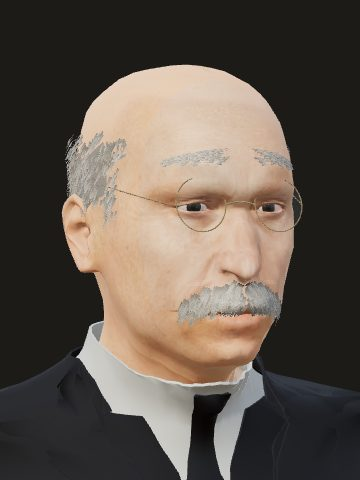
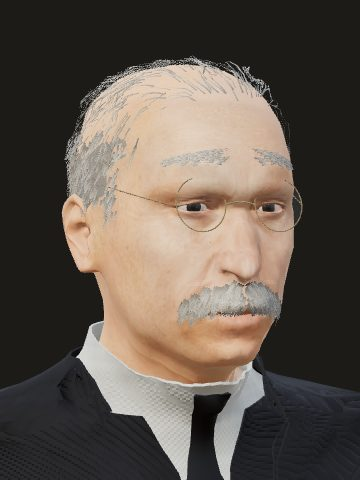
T-3553: Mr. Glessner up close in the brougham: near figure, hands on his thighs, thin crown
- driven-assembly-loader.js: a cab passenger is drawn at a near level on every device
  (min(driverLod, 1)), so on a phone or Light he keeps his hair, moustache and spectacles
  instead of taking the box's far body.
- cab-passenger.js: each hand is laid on its own thigh (two-bone reach each frame, palm down,
  fingers toward the knee) instead of hanging by his shins; bends may name a y or z axis.
- human-hair.js / human-hair-styles.js: a bald cut may keep a thin cover over the crown
  (`crown`, its own seed); Glessner's 1897 plate shows one. Card likeness still redrawn.
- Tests: test_glessner_ride.mjs checks the hands and the passenger level; test_human_hair.mjs
  the thin crown.

Claude-Session: https://claude.ai/code/session_01YWBQdZjRPAcLLyTYiHFddE

diff --git a/chicago/4d/renderers/web/js/cab-passenger.js b/chicago/4d/renderers/web/js/cab-passenger.js
@@ -13,8 +13,9 @@
  * onto the cab's seat (`root_local_m`) and bent there, each bend a world rotation about the
  * vehicle's lateral axis measured once on the clip's first pose and applied as a local
  * delta: thighs raised for the low seat, shins brought back to the floor, the back bent
- * forward from the lower spine, the neck and head lifted again to look ahead, the arms
- * forward toward the knees. The hat is off indoors. tools/test_glessner_ride.mjs measures
+ * forward from the lower spine, the neck and head lifted again to look ahead. Then each hand
+ * is laid on its own thigh (`lap`: the arm turned to reach it, the hand palm down, fingers
+ * toward the knee), each frame, so it stays there as he breathes. The hat is off indoors. tools/test_glessner_ride.mjs measures
  * the bent figure against the cab's own surfaces (roof, floor, walls).
  *
  * Bones whose clip tracks never change are not rewritten by three's mixer, so each frame the
@@ -24,10 +25,10 @@
  */
 import * as THREE from 'three';
 
-const X = new THREE.Vector3(1, 0, 0);
+const AXES = Object.freeze({ x: new THREE.Vector3(1, 0, 0), y: new THREE.Vector3(0, 1, 0), z: new THREE.Vector3(0, 0, 1) });
 const DEG = Math.PI / 180;
 
-/** The default bends (degrees about the vehicle's lateral axis; + tips a forward-pointing limb down). */
+/** The default bends (degrees about the vehicle's lateral axis unless a third entry names 'y' or 'z'; + tips a forward-pointing limb down). */
 export const CAB_SEAT_POSE = Object.freeze({
   bends: Object.freeze([
     ['thigh_l', -44], ['thigh_r', -44],
@@ -37,7 +38,57 @@ export const CAB_SEAT_POSE = Object.freeze({
     ['upperarm_l', 5], ['upperarm_r', 5],
   ]),
   hide: '(headwear|hat)',
+  // Kevin, 2026-11-17: "he also sits oddly with his arms under him". The coachman's clip holds
+  // the reins forward, so bent to the low seat his hands hung down by his shins. Each hand is
+  // laid on its own thigh instead (`lap`): the wrist over the thigh `along` the way from hip
+  // to knee, `lift` above the thigh bone (the thigh's top and the wrist's own half-thickness)
+  // and `inset` toward his middle, the elbow falling back and out (`pole`).
+  lap: Object.freeze({ along: .72, lift: .085, inset: .02, turn_in: .15, pole: Object.freeze([1, -.6, -.4]) }),
 });
+
+const V = () => new THREE.Vector3();
+/**
+ * One arm's wrist onto `target` (world), by turning the upper arm and then the forearm in the
+ * plane the elbow's `pole` (world direction) chooses. Lengths are the bones' own.
+ */
+function reach(upper, lower, hand, target, pole) {
+  upper.updateWorldMatrix(true, true);
+  const S = upper.getWorldPosition(V()), E = lower.getWorldPosition(V()), H = hand.getWorldPosition(V());
+  const a = S.distanceTo(E), b = E.distanceTo(H);
+  const toT = target.clone().sub(S), d = Math.min(Math.max(toT.length(), Math.abs(a - b) + 1e-4), a + b - 1e-4);
+  const u = toT.normalize(), v = pole.clone().addScaledVector(u, -pole.dot(u));
+  if (v.lengthSq() < 1e-10) return;
+  v.normalize();
+  const cos = Math.min(1, Math.max(-1, (a * a + d * d - b * b) / (2 * a * d)));
+  const E2 = S.clone().addScaledVector(u, a * cos).addScaledVector(v, a * Math.sqrt(1 - cos * cos));
+  const H2 = S.clone().addScaledVector(u, d);
+  turn(upper, E.clone().sub(S).normalize(), E2.clone().sub(S).normalize());
+  upper.updateWorldMatrix(false, true);
+  const E1 = lower.getWorldPosition(V());
+  turn(lower, hand.getWorldPosition(V()).sub(E1).normalize(), H2.sub(E1).normalize());
+  lower.updateWorldMatrix(false, true);
+}
+/**
+ * Lay a hand flat: its fingers (wrist to the middle knuckle) along `along`, the knuckles' line
+ * (little finger to forefinger) toward `inward`, so the palm faces down onto the thigh.
+ */
+function layHand(hand, middle, index, pinky, along, inward) {
+  hand.updateWorldMatrix(true, true);
+  const basis = (f, s) => { f = f.clone().normalize(); s = s.clone().addScaledVector(f, -s.dot(f)).normalize();
+    return new THREE.Matrix4().makeBasis(f, s, f.clone().cross(s)); };
+  const from = basis(middle.getWorldPosition(V()).sub(hand.getWorldPosition(V())), index.getWorldPosition(V()).sub(pinky.getWorldPosition(V())));
+  const to = basis(along, inward);
+  const r = new THREE.Quaternion().setFromRotationMatrix(to.multiply(from.transpose()));
+  const w = hand.getWorldQuaternion(new THREE.Quaternion());
+  hand.quaternion.multiply(w.clone().invert().multiply(r).multiply(w));
+  hand.updateWorldMatrix(false, true);
+}
+/** Turn `bone` so its world direction `from` points along `to`. */
+function turn(bone, from, to) {
+  const w = bone.getWorldQuaternion(new THREE.Quaternion());
+  const r = new THREE.Quaternion().setFromUnitVectors(from, to);
+  bone.quaternion.multiply(w.clone().invert().multiply(r).multiply(w));
+}
 
 /**
  * Bend a seated body (`scene`, its clip already applied at its first pose) per `pose`.
@@ -45,18 +96,19 @@ export const CAB_SEAT_POSE = Object.freeze({
  * { restore(), apply(), bones, hidden } — restore() before each mixer update, apply() after it
  * and before any life layer.
  */
-export function seatInCab(scene, { bends = CAB_SEAT_POSE.bends, hide = CAB_SEAT_POSE.hide } = {}, frame = scene) {
+export function seatInCab(scene, { bends = CAB_SEAT_POSE.bends, hide = CAB_SEAT_POSE.hide, lap = CAB_SEAT_POSE.lap } = {}, frame = scene) {
   const bones = new Map();
   scene.traverse(o => { if (o.isBone) bones.set(o.name, o); });
   frame.updateMatrixWorld(true);
   const frameInv = frame.getWorldQuaternion(new THREE.Quaternion()).invert();
   const deltas = [];
-  for (const [name, deg] of bends) {
+  for (const [name, deg, axis = 'x'] of bends) {
     const bone = bones.get(name);
     if (!bone) throw Error(`cab passenger: the contract skeleton has no ${name}`);
     frame.updateMatrixWorld(true);
     const bw = frameInv.clone().multiply(bone.getWorldQuaternion(new THREE.Quaternion()));
-    const r = new THREE.Quaternion().setFromAxisAngle(X, deg * DEG);
+    if (!AXES[axis]) throw Error(`cab passenger: no axis ${axis}`);
+    const r = new THREE.Quaternion().setFromAxisAngle(AXES[axis], deg * DEG);
     const d = bw.clone().invert().multiply(r).multiply(bw);
     bone.quaternion.multiply(d);
     deltas.push({ bone, d, base: null });
@@ -69,15 +121,45 @@ export function seatInCab(scene, { bends = CAB_SEAT_POSE.bends, hide = CAB_SEAT_
     const re = new RegExp(hide, 'i');
     scene.traverse(o => { if (o.isMesh && re.test(o.name) && o.visible) { o.visible = false; hidden.push(o); } });
   }
+  const need = n => { const b = bones.get(n); if (!b) throw Error(`cab passenger: the contract skeleton has no ${n}`); return b; };
+  const arms = lap ? ['l', 'r'].map(s => ({ s, upper: need(`upperarm_${s}`), lower: need(`lowerarm_${s}`), hand: need(`hand_${s}`),
+    thigh: need(`thigh_${s}`), calf: need(`calf_${s}`),
+    middle: need(`middle_01_${s}`), index: need(`index_01_${s}`), pinky: need(`pinky_01_${s}`), base: [null, null, null] })) : [];
+  const fq = new THREE.Quaternion(), mid = V(), side = V();
   return {
-    bones: deltas.map(x => x.bone.name), hidden,
+    bones: [...deltas.map(x => x.bone.name), ...arms.flatMap(a => [a.upper.name, a.lower.name, a.hand.name])], hidden,
     /** Before the mixer: each bent bone back to the clip's own pose of it. */
-    restore() { for (const x of deltas) if (x.base) x.bone.quaternion.copy(x.base); },
+    restore() {
+      for (let i = arms.length - 1; i >= 0; i--) { const a = arms[i]; if (a.base[0]) { a.upper.quaternion.copy(a.base[0]); a.lower.quaternion.copy(a.base[1]); a.hand.quaternion.copy(a.base[2]); } }
+      for (const x of deltas) if (x.base) x.bone.quaternion.copy(x.base);
+    },
     /** After the mixer: the clip's pose (kept for restore), bent. */
     apply() {
       for (const x of deltas) {
         x.base = (x.base ?? new THREE.Quaternion()).copy(x.bone.quaternion);
         x.bone.quaternion.multiply(x.d);
+      }
+      if (!arms.length) return;
+      // The hands onto the thighs, where the bends have just put them.
+      frame.updateMatrixWorld(true);
+      frame.getWorldQuaternion(fq);
+      const up = AXES.y.clone().applyQuaternion(fq), right = AXES.x.clone().applyQuaternion(fq);
+      const [l, r] = arms.map(a => a.thigh.getWorldPosition(V()));
+      mid.copy(l).add(r).multiplyScalar(.5);
+      for (const a of arms) {
+        a.base[0] = (a.base[0] ?? new THREE.Quaternion()).copy(a.upper.quaternion);
+        a.base[1] = (a.base[1] ?? new THREE.Quaternion()).copy(a.lower.quaternion);
+        a.base[2] = (a.base[2] ?? new THREE.Quaternion()).copy(a.hand.quaternion);
+        const hip = a.thigh.getWorldPosition(V()), knee = a.calf.getWorldPosition(V());
+        const target = hip.clone().lerp(knee, lap.along).addScaledVector(up, lap.lift);
+        side.copy(hip).sub(mid).projectOnPlane(up).normalize();
+        target.addScaledVector(side, -lap.inset);
+        const out = side.dot(right) >= 0 ? 1 : -1;
+        const pole = new THREE.Vector3(lap.pole[0] * out, lap.pole[1], lap.pole[2]).applyQuaternion(fq);
+        reach(a.upper, a.lower, a.hand, target, pole);
+        // The fingers down the thigh toward the knee, turned a little in, the palm on it.
+        const thighDir = knee.clone().sub(hip).normalize();
+        layHand(a.hand, a.middle, a.index, a.pinky, thighDir.addScaledVector(side, -lap.turn_in).normalize(), side.clone().negate());
       }
     },
   };

diff --git a/chicago/4d/renderers/web/js/driven-assembly-loader.js b/chicago/4d/renderers/web/js/driven-assembly-loader.js
@@ -370,19 +370,25 @@ export function createDrivenAssemblyLoader({ sceneId, people, profiles = [], hum
    * seated clip (`clip`) is played on their own body and moved to the cab seat; the figure is
    * bent to fit the cab there (cab-passenger.js); a driver-life layer breathes and looks.
    */
+  // Kevin, 2026-11-17, beside Mr. Glessner in the cab on a lighter detail: "he does not have
+  // glasses or moustache or much if any hair". A passenger sits within arm's reach of the
+  // visitor's eye, so he is drawn at a near level wherever the coachman on the box is not: the
+  // nearest on a full machine, the next (still his hair, beard and spectacles, human-hair.js,
+  // human-spectacles.js) on a phone or Light, never the far body the box takes there.
+  const riderLod = Math.min(driverLod, 1);
   const makeRider = async (row, spec, clip, clipName) => {
     if (!clip || !spec?.person_id || !spec.asset_id || !spec.instance_id) throw Error('driven assembly: a passenger needs a person, figure, standing instance and the seated clip');
     const instance = { id: spec.instance_id, contract_version: 1, display: 'shown', scene: sceneId,
       person_id: spec.person_id, appearance: { asset_id: spec.asset_id },
       placement: { local_e: 0, local_n: 0, heading_deg: 180, anchor: 'terrain' }, behaviour: { state: 'seated' },
-      animation: { clip: clipName, loop: true, phase: 0 }, lod: { policy: 'fixed', fixed: driverLod },
+      animation: { clip: clipName, loop: true, phase: 0 }, lod: { policy: 'fixed', fixed: riderLod },
       interaction: { opens: 'resident_card', selectable: true },
       provenance: { grade: 'reconstructed', basis: spec.basis ?? '', liberty: spec.liberty ?? row.liberty } };
     const identity = resolveHumanIdentity(instance, { sceneId, people, profiles });
     const rider = new HumanActor({ instance, identity, person: identity.person, assets: humanAssets, heightAt: () => 0,
       tier: 'full', variation: 'face', clipLibrary: [clip] });
     try {
-      await rider.setLod(driverLod);
+      await rider.setLod(riderLod);
       if (!rider.body || !rider.play(clipName, { fade: 0, time: 0 })) throw Error('driven assembly: the passenger cannot take the seated clip');
       rider.root.position.fromArray(passengerRoot({ seat_local_m: spec.seat_local_m, clip_seat_local_m: row.driver_seat_node_m, sink_m: spec.sink_m ?? 0 }));
       rider.body.mixer.update(0); rider.root.updateMatrixWorld(true);

diff --git a/chicago/4d/renderers/web/js/human-hair-styles.js b/chicago/4d/renderers/web/js/human-hair-styles.js
@@ -68,6 +68,9 @@ export const HAIR_CUTS = Object.freeze({
     flow: 'side_part', part_cm: 3, lengths_cm: Object.freeze({ top: 1.4, side: 1.8, back: 1.5 }),
     bald: Object.freeze({ side_cm: 3.6, back_cm: 3.9, front_z_cm: -2.8 }), card_mm: 2.6,
     lift_mm: Object.freeze({ root: .5, tip: 1.4 }), density: 3.2, curl: .06, hang: false,
+    // T-3553: the plate's crown is not bare: a thin cover of short hair, combed across from the
+    // part and back, shows over it, the scalp through it; the forehead is high and clear.
+    crown: Object.freeze({ density: .9, share: .3, length_cm: 4.2, card_mm: 1.1, front_z_cm: 3.5, lift_mm: Object.freeze({ root: .2, tip: .35 }) }),
   }),
   // T-3553: William L. Grey's hair as the owner's stand-in portrait shows it (a reconstructed
   // likeness, not a picture of him): thick and wavy, worn long over the ears to the collar and
@@ -350,7 +353,7 @@ export const PEOPLE_HAIR = Object.freeze({
   glessner_john_j: Object.freeze({
     cut: 'bald_crown_fringe_1904', facial: Object.freeze(['moustache_full', 'brows_full']), colour: 'white_grey', grade: 'attested',
     source_id: 'glessner_commercial_club_1910_presidents_plate',
-    basis: 'His 1897 portrait plate (The Commercial Club of Chicago, 1910, p. 81) shows the crown bald, short white hair at the sides and back, a full moustache over the upper lip and full brows. The colour, white going grey, is read from the plate\'s light tone (a monochrome halftone) and his age; lengths and fullness are fitted to the plate by eye. Seven years on, in 1904, he is drawn as the plate shows him.',
+    basis: 'His 1897 portrait plate (The Commercial Club of Chicago, 1910, p. 81) shows the crown going bald, a thin cover of short hair combed back over it with the scalp showing through, short white hair fuller at the sides and back, a full moustache over the upper lip and full brows. The colour, white going grey, is read from the plate\'s light tone (a monochrome halftone) and his age; lengths and fullness are fitted to the plate by eye. Seven years on, in 1904, he is drawn as the plate shows him.',
   }),
   glessner_williamson_martha_l: Object.freeze({
     cut: 'drawn_back_bun_1904', facial: Object.freeze(['brows_fine', 'lashes_upper']), colour: 'mid_brown', grade: 'reconstructed',

diff --git a/chicago/4d/renderers/web/js/human-hair.js b/chicago/4d/renderers/web/js/human-hair.js
@@ -403,6 +403,32 @@ export function growHair({ hair, skin = null, root, style, lod, seed = 'person' 
     });
     grown.scalp++;
   }
+  // T-3553 (Kevin, 2026-11-17, close beside Mr. Glessner in his brougham: "not much if any
+  // hair"): a thinning crown (`cut.crown`) keeps a few fine strands over the top, combed as
+  // the cut combs, lying close, the scalp showing between them. Its own seed, so the fringe and
+  // the face's hair are drawn as before; at most `share` of the level's cards.
+  if (bald && cut.crown && want > 0) {
+    const cr = cut.crown, rc = seeded(`${seed}|${style.cut}|${lod}|crown`), open = { ...scalp, bare: null };
+    const l = new THREE.Vector3();
+    const thin = sampler(scalp, (c, n, tri) => !bald(c) && l.copy(c).sub(f.o).dot(f.z) * 100 < cr.front_z_cm && (!onHair || onHair(c, n, tri)), rc);
+    const wantTop = CARDS.cover * cr.density * thin.area, most = Math.round(level.scalp * cr.share);
+    let laidTop = 0, count = 0;
+    out.crownFrom = out.position.length / 3;
+    for (let c = 0; c < most && laidTop < wantTop; c++) {
+      const s = thin.draw();
+      if (!s) break;
+      const len = cr.length_cm / 100 * (.75 + .5 * rc()), width = cr.card_mm / 1000 * (.7 + .6 * rc());
+      laidTop += len * width * .8;
+      layCard(out, {
+        start: s.p, n0: s.n, length: len, segments: Math.max(2, Math.min(level.segments, Math.round(len / .01) + 1)), width,
+        lift: { root: cr.lift_mm.root / 1000 * (.6 + .8 * rc()), tip: cr.lift_mm.tip / 1000 * (.6 + .8 * rc()) },
+        dir: (p, n) => combed(cut, f, p, n), surface: open, nearest: nearScalp, reach: CARDS.shell_reach_m, rand: rc, curl: cut.curl, hang: false, wave: 0, waveLen: .06,
+        weights: weightsOf(hair, s.vertex, same), seed: rc(), layer: rc(),
+      });
+      count++;
+    }
+    grown.crown = count;
+  }
   // T-3506: the tail or club below a tie, `style.tail_cm` long: a bundle of cards from the tie
   // behind the head, hanging free of the scalp, down and a little back. Bound as the tie's
   // nearest cap vertex, so it moves with the head.
